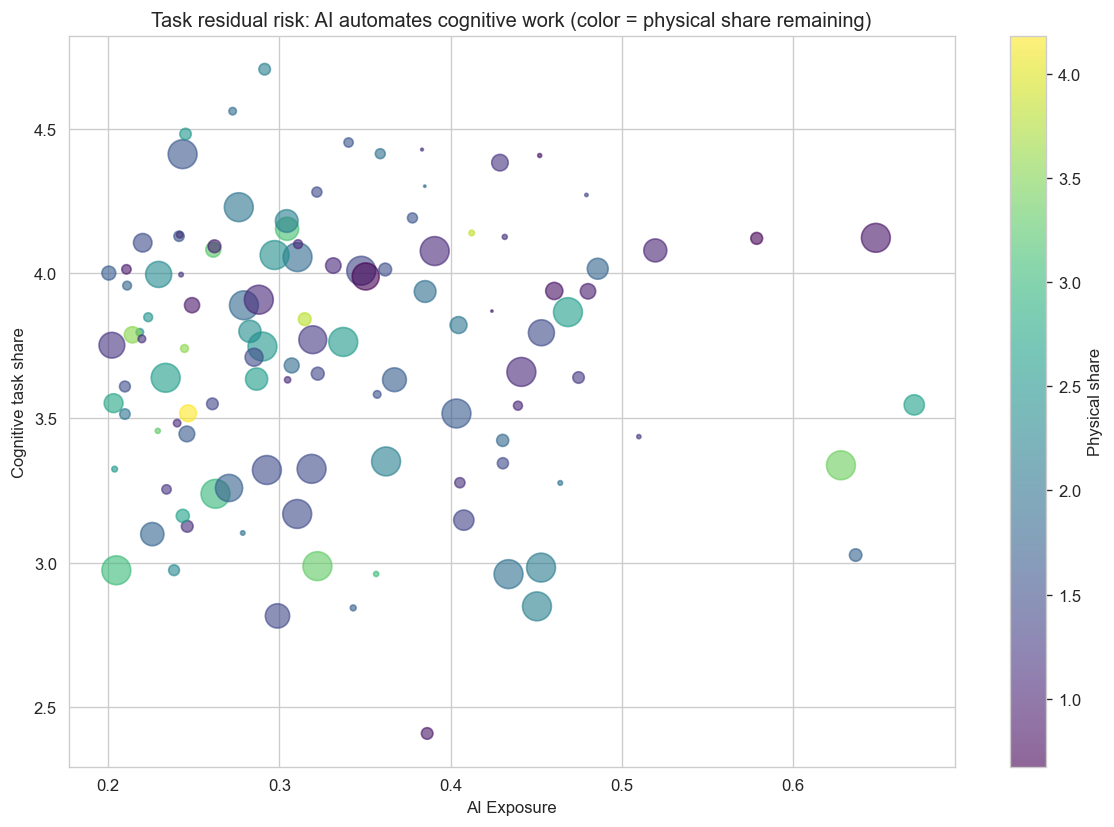
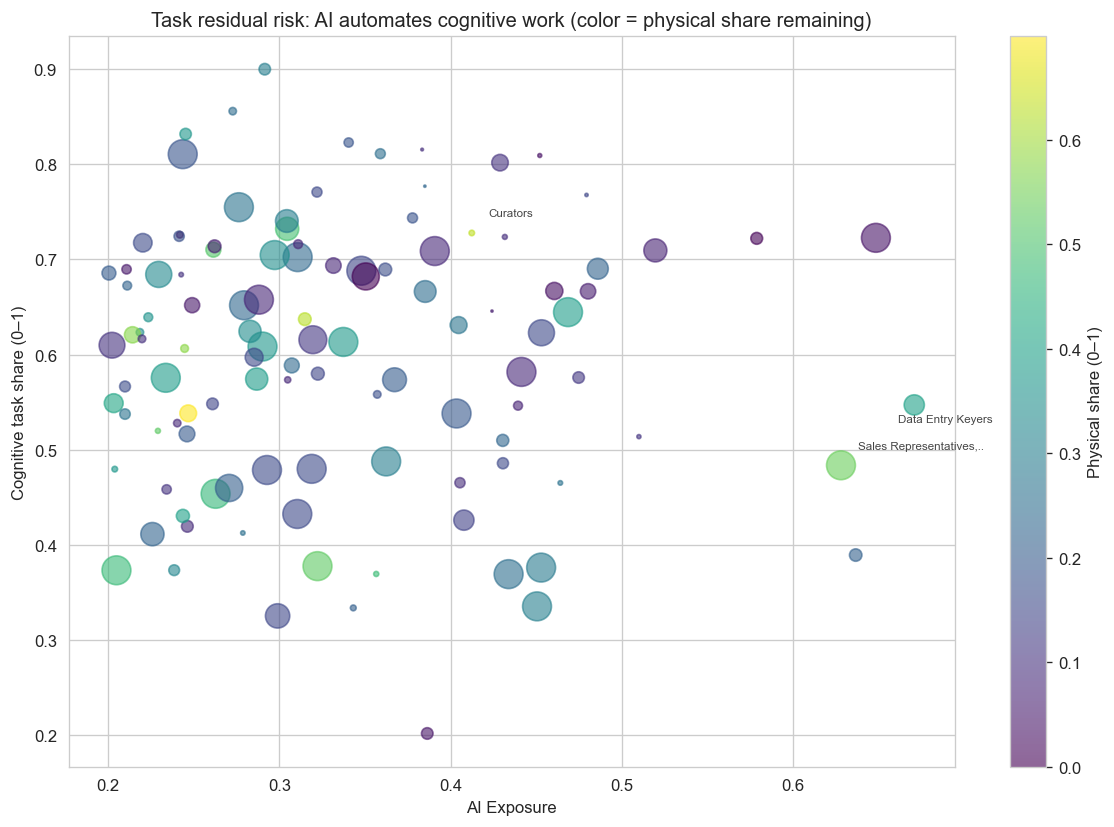
Refactor task residual risk calculations and visualizations. Normalize cognitive and physical shares in the data processing script. Update scatter plot annotations for clarity and improve output file descriptions. Adjust CSV data for accuracy in task residual risk metrics.

diff --git a/scripts/visualize.py b/scripts/visualize.py
@@ -109,9 +109,9 @@ def main():
     plt.close()
     print(f"  Saved {FIGS / 'good_safe_vs_trapped.png'}")
 
-    # 5. Task-residual scatter: cognitive_share vs ai_exposure, colored by physical_share
+    # 5. Task-residual scatter: cognitive_share vs ai_exposure, colored by physical_share (all 0-1 normalized)
     if "cognitive_share" in df.columns and "physical_share" in df.columns:
-        tr_df = df[(df["ai_exposure"] > 0.2) & (df["ai_exposure"] < 0.7) & (df["employment"] > 1000)]
+        tr_df = df[(df["ai_exposure"] > 0.2) & (df["ai_exposure"] < 0.7) & (df["employment"] > 1000)].copy()
         if not tr_df.empty:
             fig, ax = plt.subplots(figsize=(10, 7))
             size = (tr_df["employment"] / 1000).clip(upper=300)
@@ -124,9 +124,21 @@ def main():
                 cmap="viridis",
             )
             ax.set_xlabel("AI Exposure")
-            ax.set_ylabel("Cognitive task share")
+            ax.set_ylabel("Cognitive task share (0–1)")
             ax.set_title("Task residual risk: AI automates cognitive work (color = physical share remaining)")
-            plt.colorbar(scatter, ax=ax, label="Physical share")
+            plt.colorbar(scatter, ax=ax, label="Physical share (0–1)")
+            # Annotate top occupations by task_residual_risk
+            top_tr = tr_df[tr_df["task_residual_risk"].notna()].nlargest(5, "task_residual_risk")
+            for i, (_, row) in enumerate(top_tr.iterrows()):
+                offset = (10, 10) if i % 2 == 0 else (-10, -10)
+                ax.annotate(
+                    row["Title"][:22] + (".." if len(str(row["Title"])) > 22 else ""),
+                    (row["ai_exposure"], row["cognitive_share"]),
+                    fontsize=7,
+                    alpha=0.85,
+                    xytext=offset,
+                    textcoords="offset points",
+                )
             plt.tight_layout()
             plt.savefig(FIGS / "task_residual_scatter.png", bbox_inches="tight")
             plt.close()

diff --git a/scripts/build_jqadi.py b/scripts/build_jqadi.py
@@ -366,9 +366,19 @@ def build_jqadi(jqi: pd.DataFrame, ai_exposure: pd.DataFrame) -> pd.DataFrame:
     w1, w2, w3 = 0.25, 0.6, 0.15
     df["JQADI"] = w1 * df["ai_exposure"] + w2 * df["low_quality"] + w3 * df["ai_exposure"] * df["low_quality"]
     df["trapped_index"] = np.where(df["ai_exposure"] < 0.3, df["low_quality"], np.nan)
+
+    # Normalize cognitive/physical shares to [0,1] for meaningful task_residual_risk
+    for col in ["cognitive_share", "physical_share"]:
+        if col in df.columns:
+            mn, mx = df[col].min(), df[col].max()
+            if mx > mn:
+                df[col] = (df[col] - mn) / (mx - mn)
+            else:
+                df[col] = 0.5
+
     df["task_residual_risk"] = np.where(
         (df["ai_exposure"] > 0.2) & (df["ai_exposure"] < 0.7),
-        df["ai_exposure"] * df.get("cognitive_share", 0.5) * df.get("physical_share", 0.5),
+        df["ai_exposure"] * df["cognitive_share"].fillna(0.5) * df["physical_share"].fillna(0.5),
         np.nan,
     )
     return df
